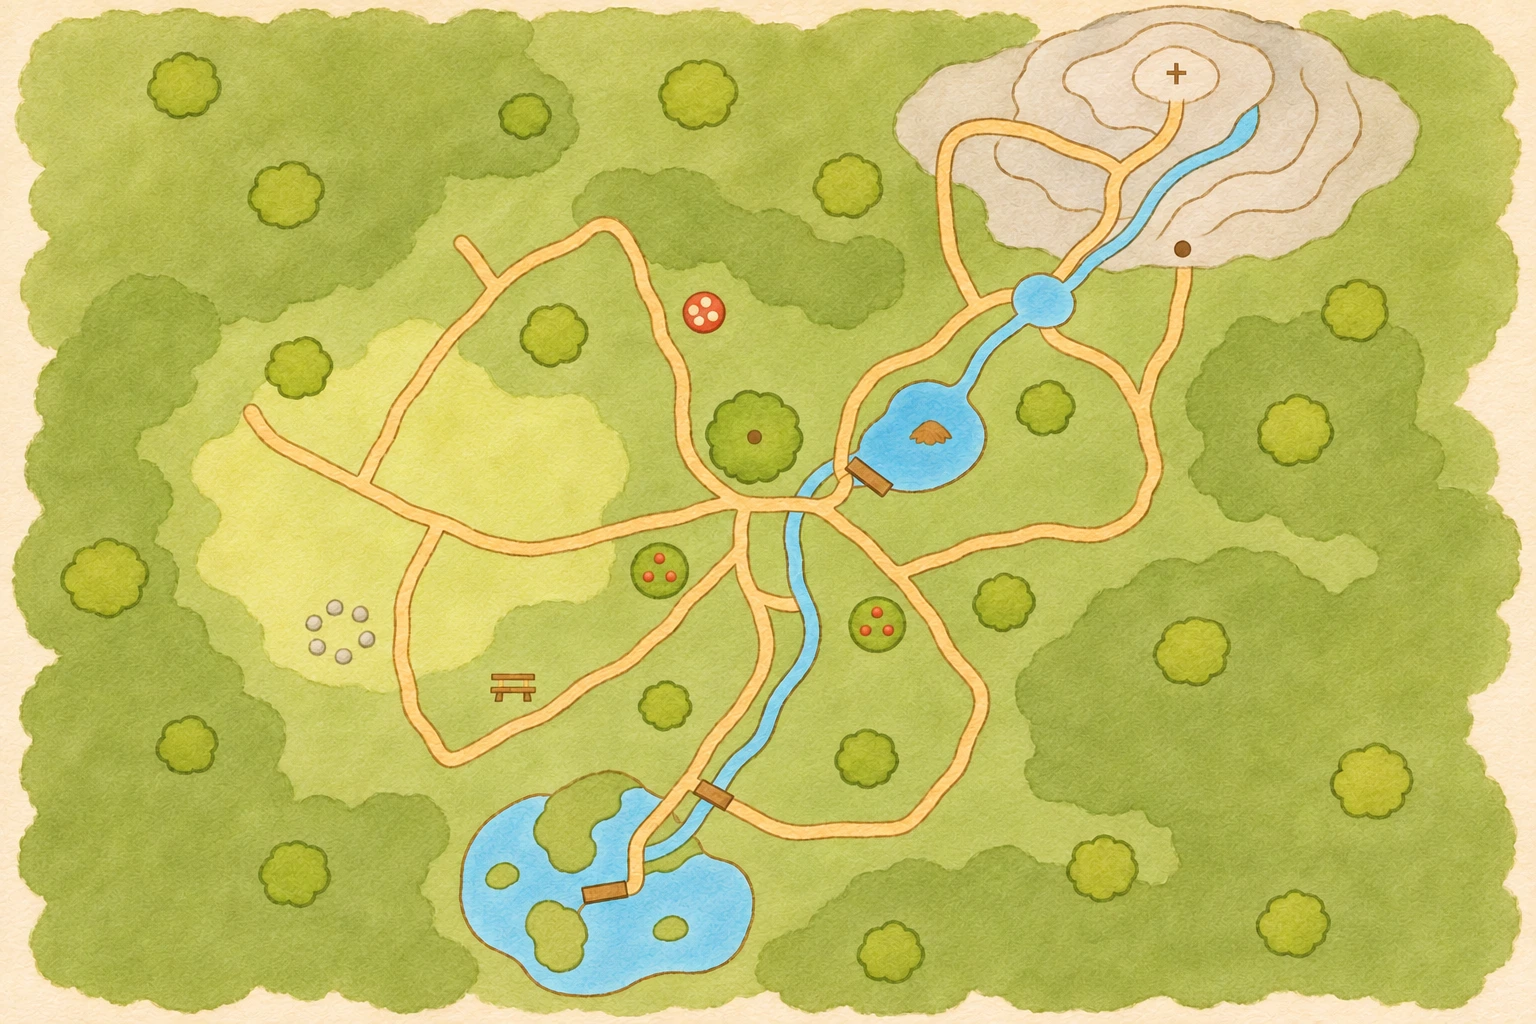
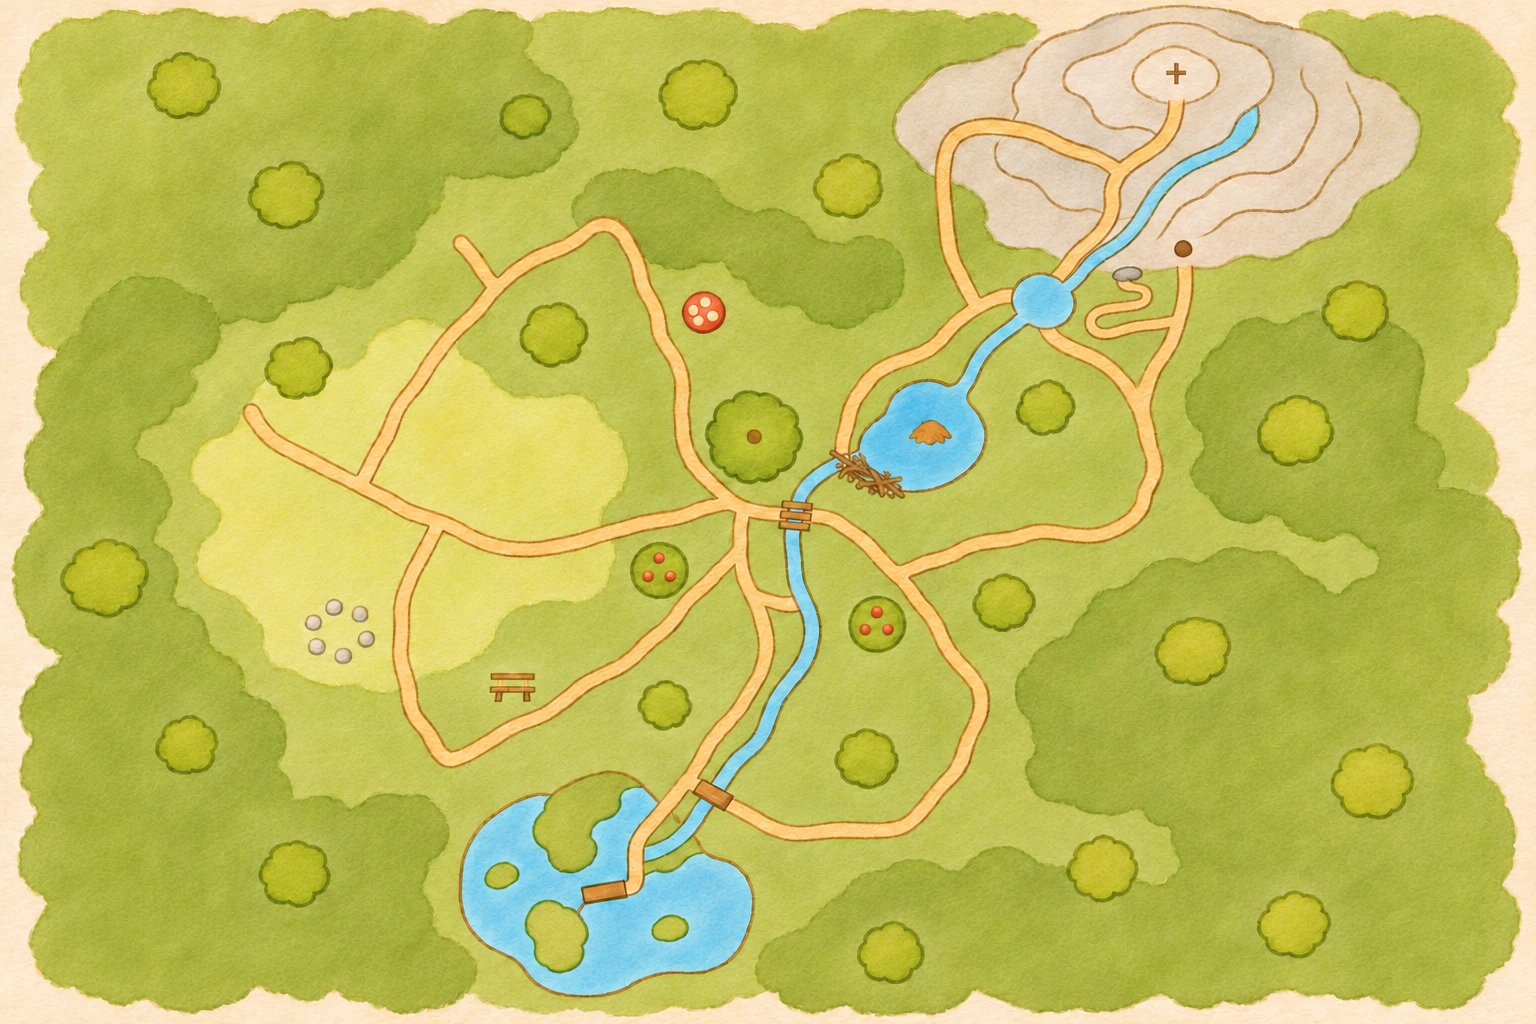
Update painted map with Steinbock ascent, home bridge and beaver dam

diff --git a/js/friends/map-layout.js b/js/friends/map-layout.js
@@ -1,7 +1,7 @@
 /* Generated by tools/map/layout.cjs from the approved painting's calibration. */
 import {EXTRAS} from './world/big/layout.js';
 const canvas=[1536,1024],extent=[-168,-112,168,112];
-const anchors=[["north-west",-168,-112,0,0],["north-east",168,-112,1536,0],["south-east",168,112,1536,1024],["south-west",-168,112,0,1024],["home",0,-3.3,754,510],["bridge",13,-3,800,510],["plunge",61.6,-50.2,1043,300],["pond",35.5,-17.5,920,436],["spring",97,-89,1257,109],["summit",80,-95,1177,74],["cave",88,-54,1183,248],["swamp",-18,80,602,890],["south-bridge",-2.8,62.4,711,797],["squirrel",-29.5,-59,610,235],["badger",-50,-52.6,500,280],["bird",-55.5,52.2,500,756],["owl",84.5,-4.5,1180,507],["beaver",23.2,-15.5,860,470],["mouse",-31.5,9.6,635,549],["deer",-78.6,-11,310,450],["hedgehog",51.6,43.8,1090,710],["kingfisher",11.2,21.5,812,656],["frog",-27.4,83.2,584,915],["ibex",74.2,-56.3,1130,255]],triangles=[[1,9,0],[19,3,0],[3,22,2],[2,16,1],[9,13,0],[18,13,4],[8,9,1],[6,13,9],[20,16,2],[14,19,0],[13,14,0],[14,18,19],[18,14,13],[18,15,19],[19,15,3],[15,22,3],[7,6,16],[20,7,16],[6,10,16],[16,10,1],[10,8,1],[12,15,18],[21,7,20],[12,21,20],[21,18,4],[21,12,18],[6,17,13],[7,17,6],[13,17,4],[23,6,9],[23,10,6],[8,23,9],[10,23,8],[15,11,22],[12,11,15],[22,11,2],[11,20,2],[11,12,20],[21,5,7],[5,17,7],[5,21,4],[17,5,4]];
+const anchors=[["north-west",-168,-112,0,0],["north-east",168,-112,1536,0],["south-east",168,112,1536,1024],["south-west",-168,112,0,1024],["home",0,-3.3,754,510],["bridge",13,-3,796,516],["plunge",61.6,-50.2,1043,300],["pond",35.5,-17.5,920,436],["spring",97,-89,1257,109],["summit",80,-95,1177,74],["cave",88,-54,1183,248],["swamp",-18,80,602,890],["south-bridge",-2.8,62.4,711,797],["squirrel",-29.5,-59,610,235],["badger",-50,-52.6,500,280],["bird",-55.5,52.2,500,756],["owl",84.5,-4.5,1180,507],["beaver",23.2,-15.5,860,470],["mouse",-31.5,9.6,635,549],["deer",-78.6,-11,310,450],["hedgehog",51.6,43.8,1090,710],["kingfisher",11.2,21.5,812,656],["frog",-27.4,83.2,584,915],["ibex",74.2,-56.3,1127,274],["ibex-cave-start",86.6,-46.2,1176,322],["ibex-cave-hairpin",70.9,-49.2,1092,324],["ibex-cave-rim",80.6,-52.4,1144,296],["dam-west",24.9,-13.3,866,468],["dam-east",31.3,-6.9,906,493],["ibex-cave-end",74.4,-53.8,1127,283]],triangles=[[1,9,0],[19,3,0],[3,22,2],[2,16,1],[9,13,0],[18,13,4],[8,9,1],[6,13,9],[20,16,2],[14,19,0],[13,14,0],[14,18,19],[18,14,13],[18,15,19],[19,15,3],[15,22,3],[7,6,16],[16,24,1],[12,15,18],[12,21,20],[21,18,4],[21,12,18],[20,28,16],[28,7,16],[21,28,20],[6,17,13],[7,17,6],[13,17,4],[6,25,16],[25,24,16],[10,8,1],[24,10,1],[15,11,22],[12,11,15],[22,11,2],[11,20,2],[11,12,20],[5,21,4],[5,28,21],[17,5,4],[28,27,7],[27,17,7],[5,27,28],[27,5,17],[23,6,9],[23,25,6],[8,23,9],[10,23,8],[25,26,24],[26,10,24],[26,23,10],[23,29,25],[29,26,25],[26,29,23]];
 const pins={"home":[755,414,"Bau"],"squirrel":[615,190,"Eichhörnchen"],"badger":[486,280,"Dachs"],"bird":[480,745,"Blaumeise"],"owl":[1210,525,"Waldkauz"],"beaver":[925,423,"Biber"],"mouse":[620,550,"Maus"],"deer":[300,445,"Reh"],"hedgehog":[1110,735,"Igel"],"fish":[1010,290,"Fisch"],"kingfisher":[840,650,"Eisvogel"],"frog":[560,920,"Frosch"],"ibex":[1230,260,"Steinbock"]};
 // characters without a letter box who still have a pin (world/big/layout.js EXTRAS; the Steinbock is a letter friend now)
 export const extraMapPlaces=Object.fromEntries(Object.entries(EXTRAS).filter(([id])=>pins[id]).map(([id,e])=>[id,{x:e.at[0],z:e.at[1],name:'Zu '+pins[id][2],picture:id}]));

diff --git a/js/friends/game.js b/js/friends/game.js
@@ -64,7 +64,10 @@ function close({restoreFocus=true}={}){
   FK.forestVoice.cancel();
   tick();if(panel==='puzzle'&&host){state.record('task_leave',{host,activeMilliseconds:activeMs});if(activeMs)state.duration(host,activeMs);activeMs=0;}
   clearTimeout(feedbackTimer);feedbackTimer=null;panel=null;example=false;overlay.hidden=true;overlay.replaceChildren();world.pause(false);nav.hidden=false;renderHotspots();caption.hidden=true;syncMail();
-  if(returnLabel)requestAnimationFrame(()=>{if(!panel&&!nav.hidden&&FK.current()==='friends')nav.querySelector('[aria-label="'+returnLabel+'"]')?.focus({preventScroll:true});});
+  // Let the touch-generated click finish before restoring focus to the launcher.
+  if(returnLabel)requestAnimationFrame(()=>requestAnimationFrame(()=>{
+    if(!panel&&!nav.hidden&&FK.current()==='friends')nav.querySelector('[aria-label="'+returnLabel+'"]')?.focus({preventScroll:true});
+  }));
 }
 function open(kind){clearTimeout(feedbackTimer);backdropTap=null;panel=kind;world.pause(true);nav.hidden=true;hotspots.replaceChildren();nearButton.hidden=true;overlay.hidden=false;overlay.setAttribute('aria-label',kind==='map'?'Bildkarte des Waldes':'Waldaktivität');overlay.replaceChildren();}
 function go(next,restore=false){

diff --git a/sw.js b/sw.js
@@ -1,5 +1,5 @@
 /* Farbtupf – Service Worker: keeps the whole app on the device so it runs without internet. */
-const CACHE = 'farbtupf-v9.4.14-waldpost';
+const CACHE = 'farbtupf-v9.4.15-waldpost';
 const SCOPE=self.registration.scope;
 const INDEX=new URL('index.html',SCOPE).href;
 const ACTIVE_MARKER=new URL('.farbtupf-active-cache',SCOPE).href;

diff --git a/js/core/util.js b/js/core/util.js
@@ -4,7 +4,7 @@
   const FK = (window.FK = window.FK || {});
 
   FK.APP_NAME = 'Waldpost';
-  FK.VERSION = '9.4.14';
+  FK.VERSION = '9.4.15';
   FK.TAU = Math.PI * 2;
   FK.$ = (sel, root) => (root || document).querySelector(sel);
   FK.$$ = (sel, root) => Array.prototype.slice.call((root || document).querySelectorAll(sel));

diff --git a/tools/map/README.md b/tools/map/README.md
@@ -2,9 +2,9 @@
 
 The runtime map is the owner's approved flat, simplified, top-down version 2 painting. Its current source is [world-map.png](../../design/artwork/sources/world-map.png); [world-map.json](../../design/artwork/world-map.json) prepares `assets/forest-friends/world-map.webp`. Generate future edits with the canonical `world-map` request; preserve projection, geography and sparse detail.
 
-The actual destination buttons, animal portraits, names, invitation marker and current-position marker remain UI layers. Each destination has a 64 px button and a visible name. The map stays at least 880 px wide and pans horizontally on phones. The position marker and leader lines cannot intercept pointer events; destination pins sit above them.
+The actual destination buttons, animal portraits, names, invitation marker and current-position marker remain UI layers. Each destination has a 64 px picture button and an accessible name. The map stays at least 880 px wide and pans horizontally on phones. The position marker and leader lines cannot intercept pointer events; destination pins sit above them.
 
-[world-map-layout.json](../../design/artwork/world-map-layout.json) calibrates 24 world landmarks to painting pixels. Its 42 precomputed world-space triangles interpolate the current Fuchs position continuously across the full extent. Named destination buttons have separated display centres; leader lines indicate the actual projected location. Routes still use original world coordinates, including Steinbock's existing crag. The calibration does not move terrain or characters.
+[world-map-layout.json](../../design/artwork/world-map-layout.json) calibrates 30 world landmarks to painting pixels. Its 54 precomputed world-space triangles interpolate the current Fuchs position continuously across the full extent. Named destination buttons have separated display centres; leader lines indicate the actual projected location. Routes still use original world coordinates, including Steinbock's crag and the new ascent from the cave approach. The painting distinguishes the plank bridge beside the den from the branch dam at the pond outlet. The calibration does not move terrain or characters.
 
 ```sh
 node tools/illustrations/prepare-image.cjs design/artwork/world-map.json

diff --git a/design/STYLE-AUDIT.md b/design/STYLE-AUDIT.md
@@ -1,6 +1,12 @@
 # Current visual consistency audit
 
-Current game art is **Waldpost 9.4.13**. The canonical medium remains **`waldpost-watercolour-pencil-v1`**, with frozen animal and object reference pixels and **87** complete forward image-generation prompts.
+Current game art is **Waldpost 9.4.15**. The canonical medium remains **`waldpost-watercolour-pencil-v1`**, with frozen animal and object reference pixels and **87** complete forward image-generation prompts.
+
+## Steinbock-Aufstieg und Wasserübergänge auf der Karte — 9.4.15
+
+Die Bildkarte zeigt den neuen Aufstieg vom Höhlenweg mit einer Kehre bis zum Steinbock-Felsen. Am Bach neben dem Fuchsbau liegt jetzt eine erkennbare Holzbrücke. Am Auslauf des Biberteichs ersetzt ein unregelmässiger Damm aus Ästen das bisherige rechteckige Brückensymbol. Der Bach bleibt zwischen Teich, Damm und Brücke durchgehend erkennbar.
+
+Die Kartenkalibrierung enthält nun 30 Bezugspunkte mit 54 Dreiecken. Neue Bezugspunkte binden Einstieg, Kehre, oberen Wegabschnitt, Wegende und beide Dammenden an die tatsächlichen Weltkoordinaten. Brücke und Steinbock-Markierung sind auf die neue Zeichnung abgestimmt. Die ursprüngliche Malerei sowie beide Generierungsanfragen mit kanonischen Referenzen sind dokumentiert. Die [Kartenbelege](evidence/2026-11-20-map/README.md) stammen aus dem echten Dialog auf Tablet und Telefon.
 
 ## Unverzerrte Rätselbilder auf dem iPad — 9.4.13
 

diff --git a/design/evidence/2026-11-20-map/README.md b/design/evidence/2026-11-20-map/README.md
@@ -1,0 +1,8 @@
+# Karte mit Steinbock-Aufstieg — 9.4.15
+
+Der echte Kartendialog zeigt die neue Malerei mit dem Aufstieg vom Höhlenweg zum Steinbock, der Holzbrücke östlich des Fuchsbaus und dem Ast-Damm am Biberteich.
+
+- [Tablet, 1080 × 810](tablet.png)
+- [Telefon, 390 × 844](phone.png)
+
+Die Aufnahmen stammen aus Chromium mit Touch-Eingabe, reduziertem Bewegungseffekt, wegwerfbarem Speicher und abgefangenen Review-APIs. Der Browsertest `tests/drawn-map-browser.cjs` bedient alle 13 Kartenpunkte auf Tablet, Telefon und im Telefon-Querformat. Er prüft echte Wegwahl, getrennte 64-px-Tippflächen, Wischen, Schliessen per Aussentipp und Escape sowie die Fokusrückgabe. Der Modelltest vergleicht die Bezugspunkte des neuen Aufstiegs, der Brücke und beider Dammenden mit der aktuellen Weltgeometrie und prüft die stetige Projektion ohne umgeklappte Dreiecke.
